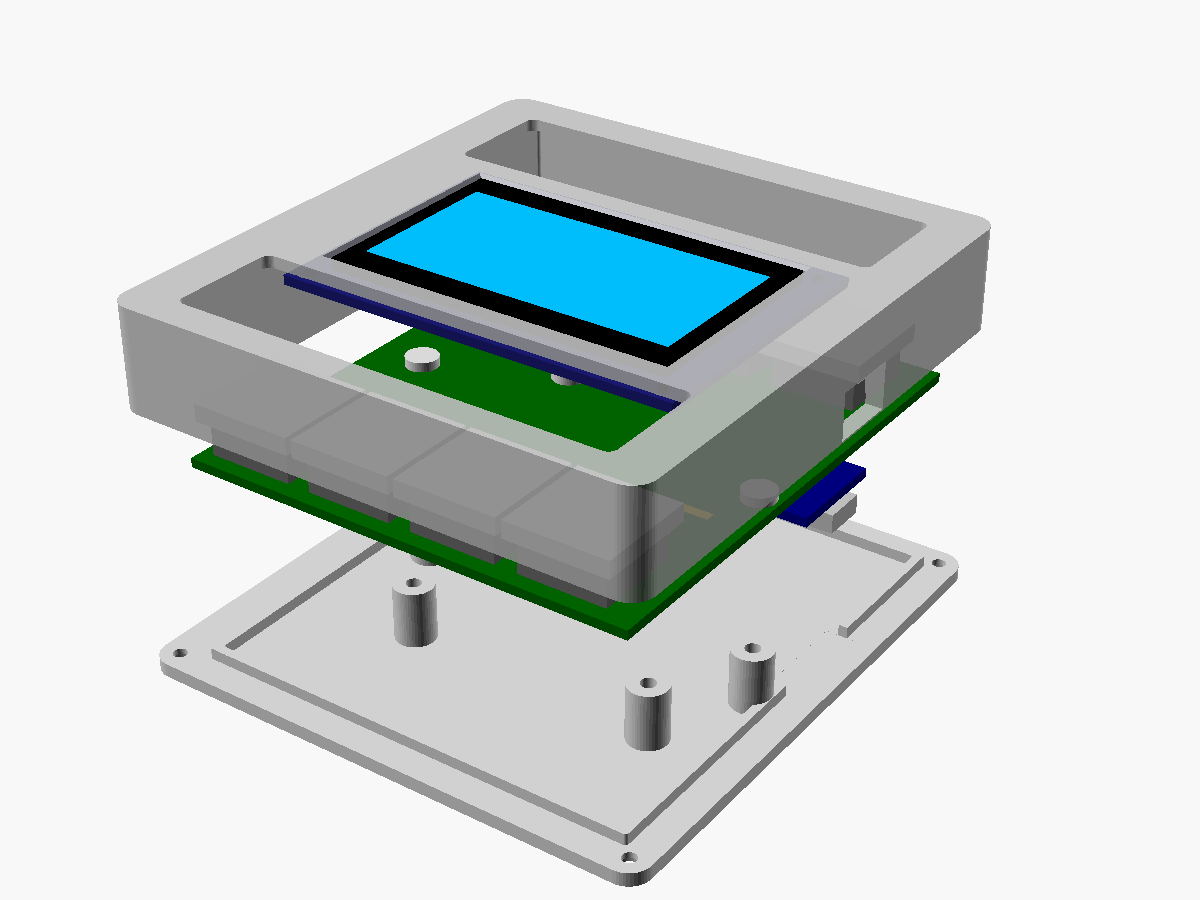
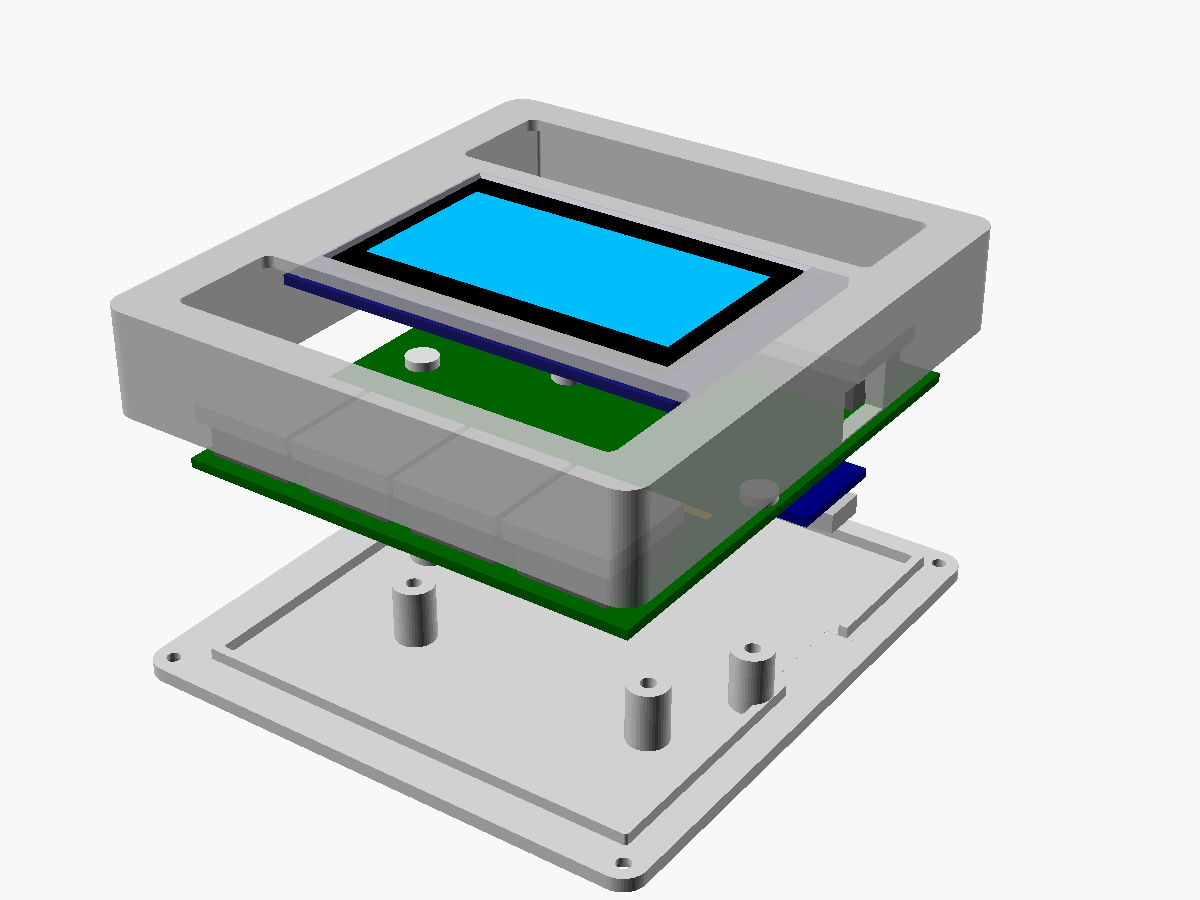
Obudowa symetryczna także w pionie względem klawiszy i ekranu
Obrys liczony od środka klawiszy i ekranu w obu osiach: ścianki lewa 8,15 / prawa 5,
dolna 6,45 / górna 5 mm; obudowa 93,45 × 101 × 20 mm.

diff --git a/README.md b/README.md
@@ -198,7 +198,7 @@ automatycznie z pól modelu.
 
 ## Obudowa (OpenSCAD)
 
-`case/chocpilot_case.scad` – obudowa **93,5 × 99,6 × 20 mm** z płaską górą, symetryczna względem klawiszy i ekranu (lewa ścianka grubsza o tyle, o ile PCB wystaje w prawo pod Pro Micro), dopasowana do
+`case/chocpilot_case.scad` – obudowa **93,5 × 101 × 20 mm** z płaską górą, symetryczna w obu osiach względem klawiszy i ekranu (lewa i dolna ścianka są grubsze o tyle, o ile PCB wystaje w prawo pod Pro Micro i ma większy margines nad górnym rzędem), dopasowana do
 kompaktowej płytki z KiCad (`esp_macropad/pcb/tap32/tap32.kicad_pcb`, podgląd:
 [docs/img/pcb_compact.png](docs/img/pcb_compact.png)): obrys 79,5 × 88,75 mm, rzędy klawiszy
 67 mm od siebie, ekran 2,42" poziomo dokładnie pośrodku (ten sam odstęp od obu rzędów).
